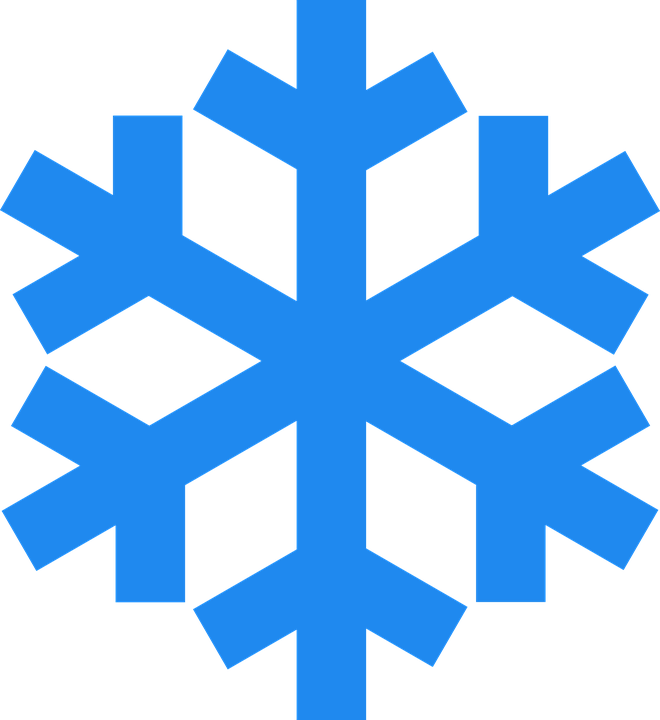
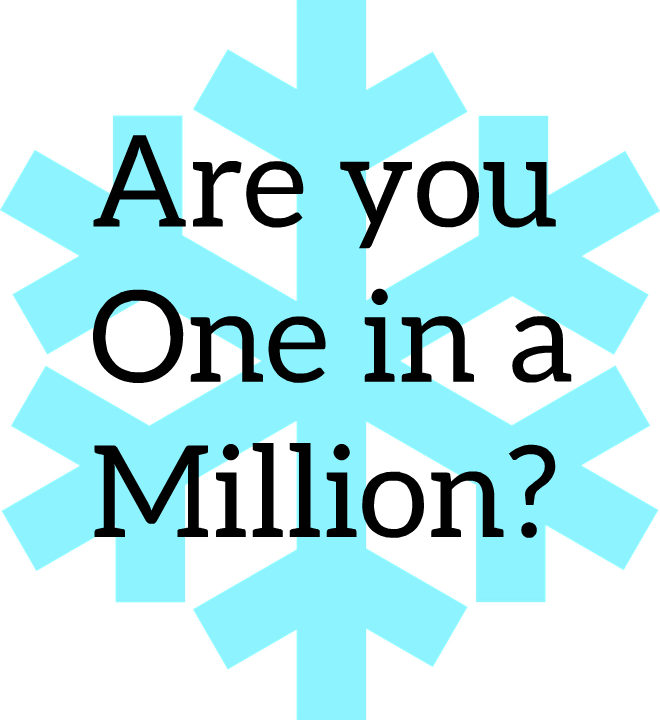
sharing changes

diff --git a/index.html b/index.html
@@ -1,8 +1,8 @@
 <!doctype html>
 <html ng-app="app">
   <head>
-    <title>One in a Million</title>
-    <meta name="description" content="A census-powered quiz for weirdos">
+    <title>One in a Million: A Census Powered Online Quiz</title>
+    <meta name="description" content="Find out the odds of meeting someone like you">
     <meta property="og:image" content="http://www.anthonygarvan.com/oneinamillion/img/snowflake.png"/>
 
     <script src="node_modules/angular/angular.min.js"></script>

diff --git a/README.md b/README.md
@@ -1,6 +1,6 @@
 # One in a Million
 
-#### A census-powered quiz for weirdos
+#### An online quiz, powered by the U.S. Census
 
 This is an online quiz powered by 2009-2013 [American Community Survey (ACS)](https://www.census.gov/programs-surveys/acs/) provided by the U.S. Census Bureau.
 Users are guided through a series of questions, and after each question they are told how unique they are
